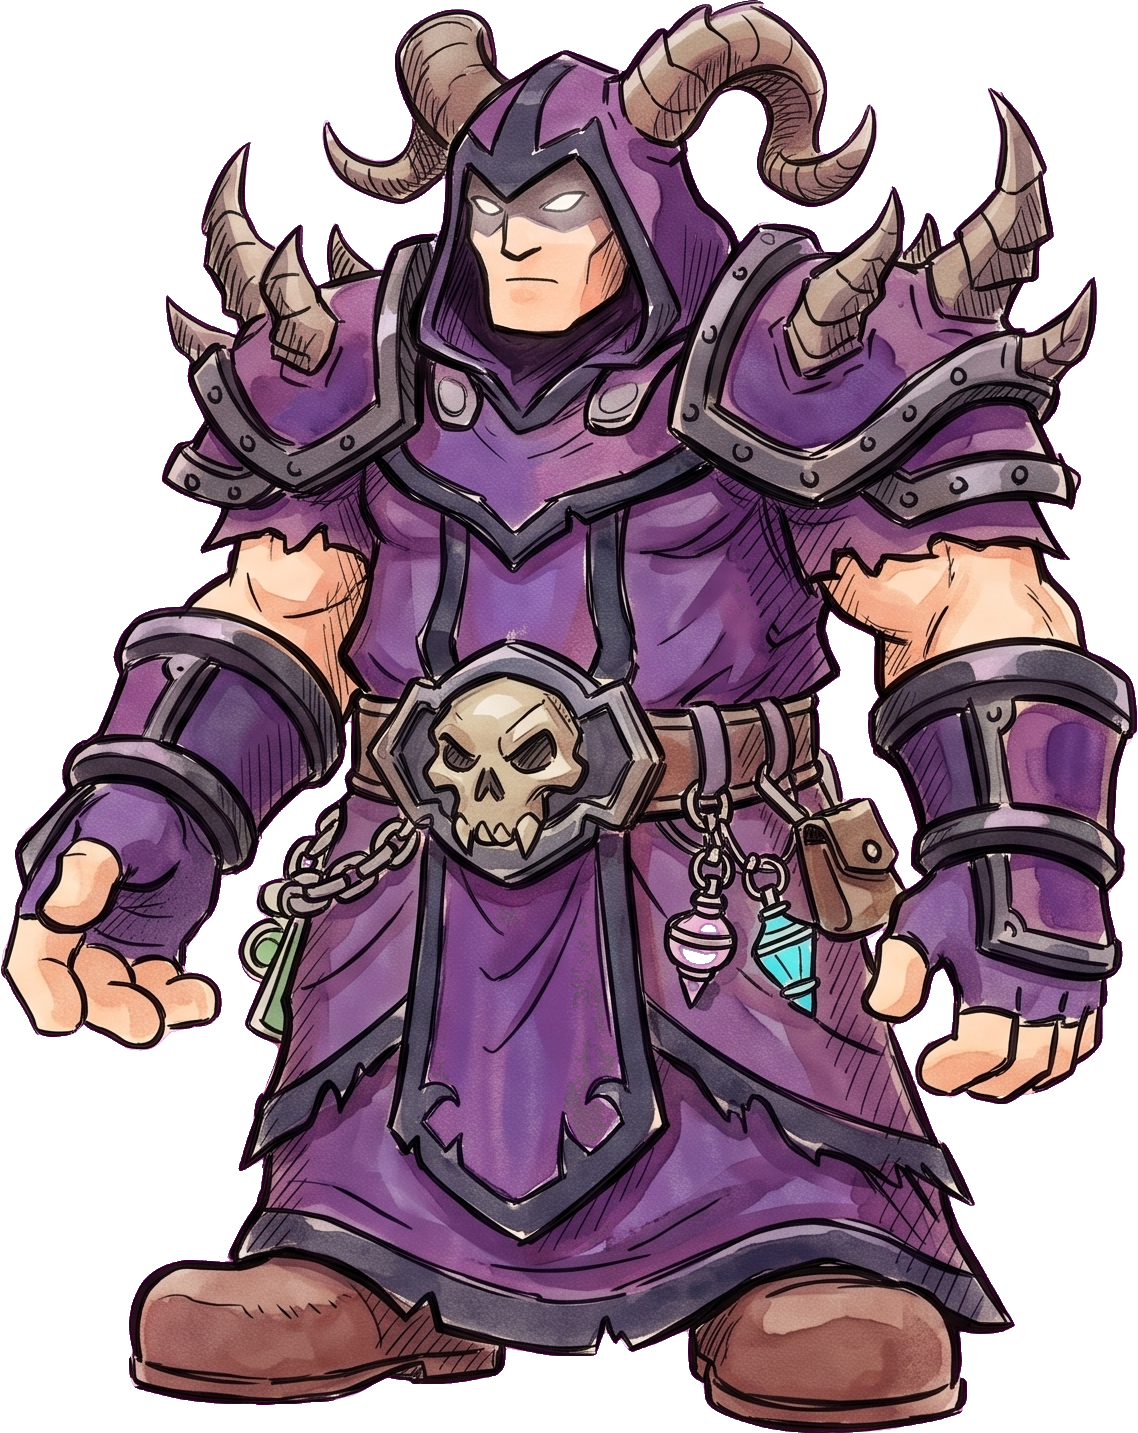
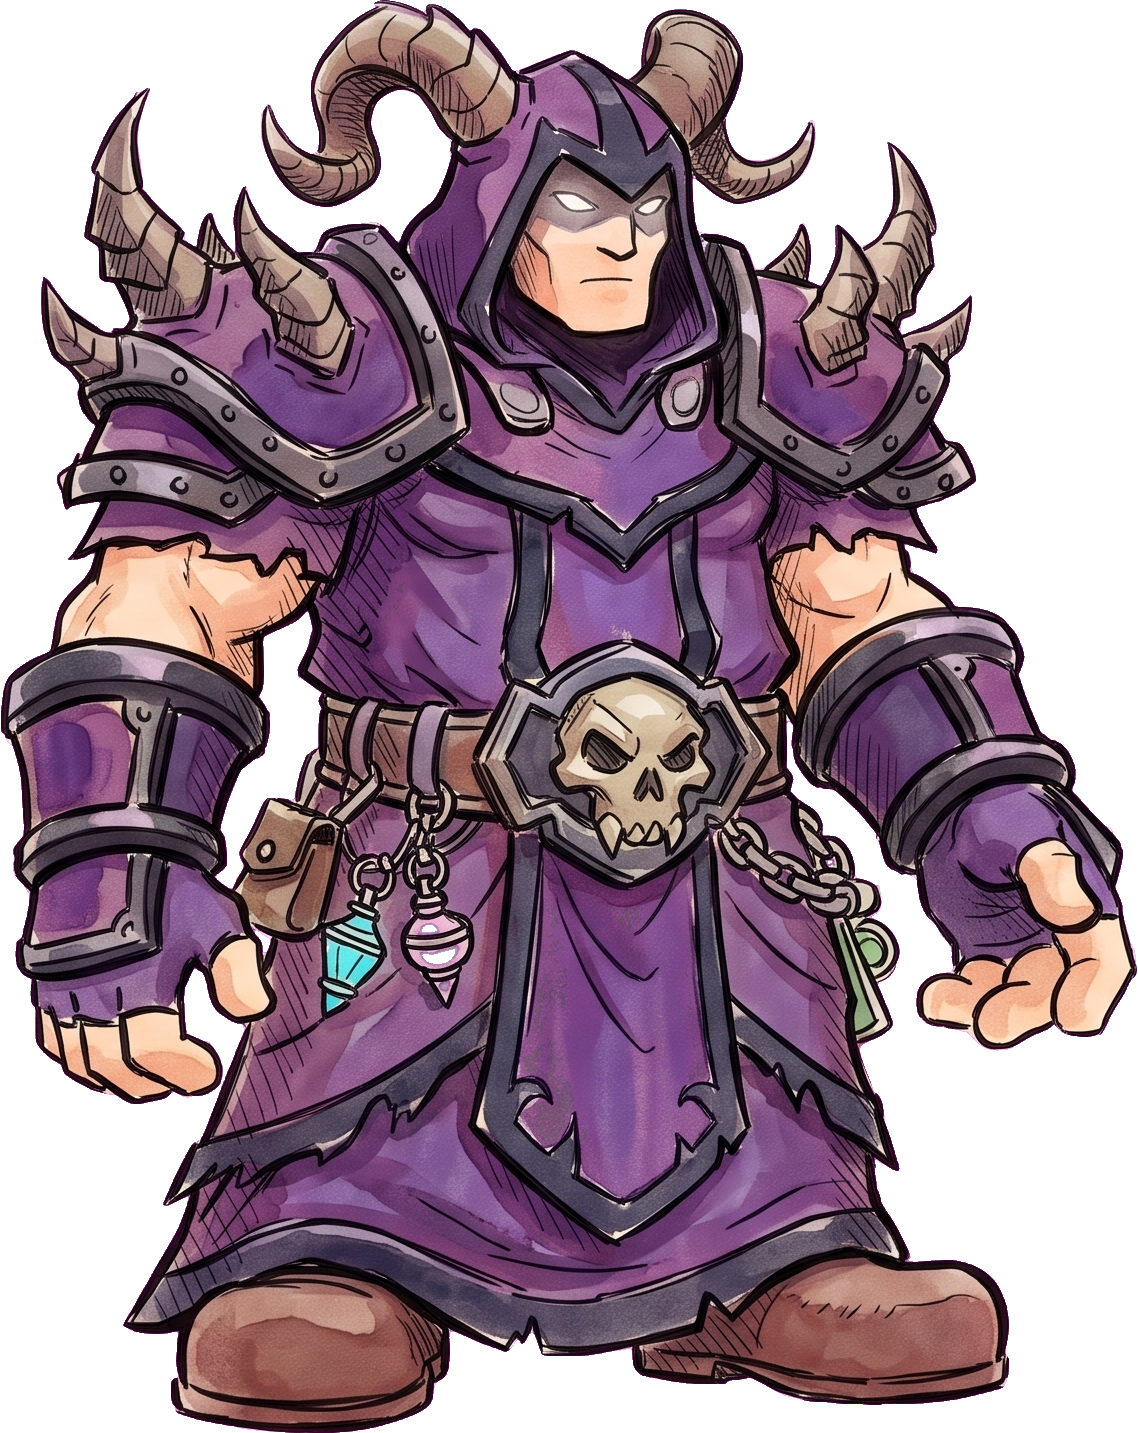
Art: flip warlock, v2 prompts for A2 slate and E7 mage
Claude-Session: https://claude.ai/code/session_01T51QxDuoH2ssy7cDybnp9Q

diff --git a/art/gemini-prompt-pack.md b/art/gemini-prompt-pack.md
@@ -4,6 +4,7 @@ Art department, 2026-11-18. Every prompt below is complete. Copy the whole grey 
 
 - **Always attach** `art/sketches/character-study-v1.png` (the character study). Character prompts E1 to E10 also need your E0 result.
 - **Run them in order**, one per message. Batches of results are fine.
+- **Save as PNG** when Gemini offers it; JPEG leaves pink fringes around cut-out edges.
 - **Rerun** anything that looks like Blizzard's real art, logos or characters.
 - **Why the magenta and the greys:** Art cuts out the magenta, and grey pieces get recoloured in the game, so one drawing serves both light and dark mode. The reuse plan is at the end.
 
@@ -20,7 +21,7 @@ The look is World of Warcraft Classic (2004): a chunky, hand-painted high-fantas
 Attach: the character study.
 
 ```
-The look is World of Warcraft Classic (2004): a chunky, hand-painted high-fantasy style with warm saturated colours, exaggerated proportions (huge shoulder pads, big hands, big boots, oversized weapons), and interface frames made of gold-trimmed parchment and dark carved stone with rivets and knotwork ornaments. Draw it as a lovingly clumsy parody of that style, as if a raid leader sketched it in a paper notebook with a dip pen and watercolour: wobbly confident ink outlines, light crosshatching. Original design only: no Blizzard logos, no copied World of Warcraft art. Match the drawing style of the attached reference image. A seamless tileable square texture of dark charcoal carved stone like the Classic dark dialog frames and talent panels, with very subtle chalky grain and faint lighter streaks. Even lighting, no objects, no vignette. Fill the whole image; the edges must tile seamlessly.
+The look is World of Warcraft Classic (2004): a chunky, hand-painted high-fantasy style with warm saturated colours, exaggerated proportions (huge shoulder pads, big hands, big boots, oversized weapons), and interface frames made of gold-trimmed parchment and dark carved stone with rivets and knotwork ornaments. Draw it as a lovingly clumsy parody of that style, as if a raid leader sketched it in a paper notebook with a dip pen and watercolour: wobbly confident ink outlines, light crosshatching. Original design only: no Blizzard logos, no copied World of Warcraft art. Match the drawing style of the attached reference image. A seamless tileable square texture of ONE smooth, continuous dark charcoal slate surface, like the plain dark background inside a Classic dialog window or spellbook page. No bricks, no tiles, no blocks, no cracks, no seams and no grout lines: a single flat surface with very subtle chalky grain and a few faint lighter streaks, so white text stays easy to read on top of it. Even lighting, no objects, no vignette. Fill the whole image; the left edge must continue into the right edge and the top into the bottom.
 ```
 
 ## A3. Paper wear stickers
@@ -164,7 +165,7 @@ The look is World of Warcraft Classic (2004): a chunky, hand-painted high-fantas
 Attach: the character study and your E0 template result.
 
 ```
-The look is World of Warcraft Classic (2004): a chunky, hand-painted high-fantasy style with warm saturated colours, exaggerated proportions (huge shoulder pads, big hands, big boots, oversized weapons), and interface frames made of gold-trimmed parchment and dark carved stone with rivets and knotwork ornaments. Draw it as a lovingly clumsy parody of that style, as if a raid leader sketched it in a paper notebook with a dip pen and watercolour. Wobbly confident ink outlines, light crosshatching on shadow sides. Charming and a bit clumsy, never sloppy. Original designs only: no Blizzard logos, no real WoW icons, no text. Flat solid magenta (#FF00FF) background with nothing else on it. Each piece separate, with clear magenta space between pieces. Match the drawing style of the attached reference image. One full-body mage character drawn on exactly the same proportions, height and pose as the attached mannequin template, side view facing right, hands empty because weapons are added separately. Original character, not a known WoW character: deep blue hooded robe, face in shadow with glowing eyes.
+The look is World of Warcraft Classic (2004): a chunky, hand-painted high-fantasy style with warm saturated colours, exaggerated proportions (huge shoulder pads, big hands, big boots, oversized weapons), and interface frames made of gold-trimmed parchment and dark carved stone with rivets and knotwork ornaments. Draw it as a lovingly clumsy parody of that style, as if a raid leader sketched it in a paper notebook with a dip pen and watercolour. Wobbly confident ink outlines, light crosshatching on shadow sides. Original designs only: no Blizzard logos, no real WoW icons, no text. Match the drawing style of the attached reference image. Exactly ONE full-body mage character, centred, drawn on exactly the same proportions, height and pose as the attached mannequin template, side view facing right, hands empty because weapons are added separately. Original character, not a known WoW character: deep blue hooded robe, face in shadow with glowing eyes. The background must be one flat solid magenta (#FF00FF) colour edge to edge: no gradient, no glow, no light spill, no floor shadow, nothing else in the image.
 ```
 
 ## E8. Warlock

diff --git a/design/decisions.md b/design/decisions.md
@@ -4,6 +4,7 @@ Decisions made by the Game Director. Newest first.
 
 | Date | Area | Decision |
 | --- | --- | --- |
+| 2026-11-18 | Art | Director likes Gemini's polished-but-janky WoW look (better than doodles); it is the character style. A2 slate and E7 mage rerun with v2 prompts; warlock flipped to face right |
 | 2026-11-18 | Art / Design | Gear on characters: quality shimmer only (trim glow tinted by average quality, in code). Equipped weapon props later; no tier set looks for now |
 | 2026-11-18 | Art | Reusable kit: neutral pieces tinted in code (SetVertexColor), 9-slice frames, frame plus glyph icons, state overlays, shared character template with separate props, generic tinted effects, layered stages. Prompt pack v2 replaces v1 |
 | 2026-11-18 | Art | Style: A Field Journal is light mode, C Midnight Grimoire is dark mode. Direction: a hand-drawn parody of the WoW Classic UI (parchment quest log, dark slate frames), never copying Blizzard art. Assets come from Gemini via art/gemini-prompt-pack.md, on a magenta background; Art cleans, slices, recolours and edits every piece |
